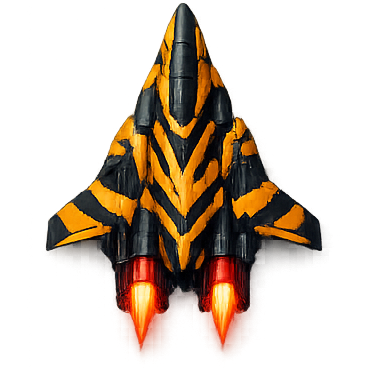
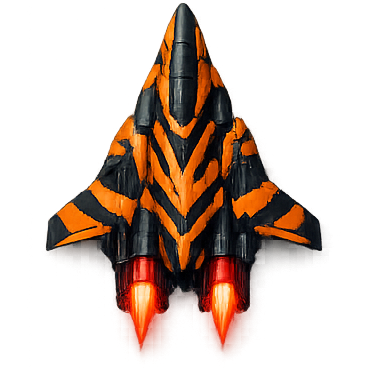
Thorium gap: Slightly larger bosses and the shades of the ship in the tiger level are a bit more varied

diff --git a/ThoriumGap_JS/ThoriumGap.js b/ThoriumGap_JS/ThoriumGap.js
@@ -1805,17 +1805,17 @@
 
   const THEMES = [
     theme({ name: 'Thorium Rift', subtitle: 'None Shall Pass', skyTop: '#07111f', skyBottom: '#274062', glow: '#9bc5ff', accent: '#6d9cff', accent2: '#d5e4ff', forms: ['line', 'fan', 'rain'], enemyKinds: ['drifter', 'swarm', 'looper'], atmosphere: 'leaves', music: { bpm: 112, root: 220, pattern: [0, 3, 5, 7, 10, 7, 5, 3] }, boss: { name: 'Red Guardian', emoji: E.apple, hp: 400, size: 320, color: '#9ec2ff', flipWhenMovingRight: false, phases: [phase(7, 'hover', 'aimed'), phase(7, 'sweep', 'rain'), phase(8, 'low', 'ring')] } }),
-    theme({ name: 'Broken Shore', subtitle: 'First of His Name', skyTop: '#061b1b', skyBottom: '#1f4d49', glow: '#8ff7ff', accent: '#58d7c6', accent2: '#c8fff2', forms: ['swarm', 'pair', 'arc'], enemyKinds: ['looper', 'bomber', 'sniper'], atmosphere: 'pollen', music: { bpm: 126, root: 246, pattern: [0, 2, 4, 7, 9, 7, 4, 2] }, boss: { name: 'Rocket Baron', emoji: E.bee, hp: 500, size: 400, color: '#93f0e8', flipWhenMovingRight: true, phases: [phase(7, 'hover', 'fan'), phase(7.5, 'sweep', 'summon'), phase(8, 'low', 'ring')] } }),
-    theme({ name: 'Growling Space', subtitle: 'The Gilded Pouncer', skyTop: '#1b1730', skyBottom: '#53265f', glow: '#d19cff', accent: '#9a7cff', accent2: '#f0d0ff', forms: ['fan', 'rain', 'cross'], enemyKinds: ['drifter', 'looper', 'bomber'], atmosphere: 'sprinkles', music: { bpm: 136, root: 262, pattern: [0, 4, 7, 12, 7, 4, 5, 9] }, boss: { name: 'Kharza Prime', emoji: E.donut, hp: 600, size:400 , color: '#c29bff', flipWhenMovingRight: true, phases: [phase(7, 'hover', 'fan'), phase(7, 'sweep', 'ring'), phase(8, 'low', 'rain')] }}),
-    theme({ name: 'Spinners Den', subtitle: 'Hunger Without Limit', skyTop: '#0f1620', skyBottom: '#4d5867', glow: '#96c9ff', accent: '#9fb2c6', accent2: '#d0e0ef', forms: ['line', 'pair', 'cross'], enemyKinds: ['looper', 'sniper', 'bomber'], atmosphere: 'sparks', music: { bpm: 118, root: 196, pattern: [0, 0, 7, 5, 4, 5, 7, 10] }, boss: { name: 'Silken Spinner', emoji: E.gear, hp: 700, size: 400, color: '#d0d9e1', flipWhenMovingRight: false, phases: [phase(7, 'sweep', 'ring'), phase(7.5, 'dash', 'summon'), phase(8, 'hover', 'fan')] }, asteroidDensity: 1.5  }),
-    theme({ name: 'Deadlight Harbor', subtitle: 'Master of the Soulless Crew', skyTop: '#06111d', skyBottom: '#532a40', glow: '#ffbf8a', accent: '#e0a06c', accent2: '#ffc8a1', forms: ['rain', 'arc', 'swarm'], enemyKinds: ['swarm', 'sniper', 'drifter'], atmosphere: 'motes', music: { bpm: 108, root: 196, pattern: [0, 5, 7, 10, 7, 5, 3, 5] }, boss: { name: 'Captain Thaddeus', emoji: E.lantern, hp: 900, size: 400, color: '#f6b46d', flipWhenMovingRight: true, phases: [phase(7, 'hover', 'aimed'), phase(7.5, 'sweep', 'beam'), phase(8, 'low', 'ring')] } }),
-    theme({ name: 'Elysium Sea', subtitle: 'The Steed of Neptune', skyTop: '#220c0c', skyBottom: '#6d3a13', glow: '#ffd77a', accent: '#c47a19', accent2: '#ffd59f', forms: ['swarm', 'fan', 'pair'], enemyKinds: ['diver', 'swarm', 'sniper'], atmosphere: 'embers', music: { bpm: 132, root: 246, pattern: [0, 2, 3, 7, 10, 7, 3, 2] }, boss: { name: 'Lunar Horse', emoji: E.bee, hp: 1100, size: 400, color: '#e4ba6a', flipWhenMovingRight: true, phases: [phase(7, 'hover', 'fan'), phase(8, 'dash', 'rain'), phase(7.5, 'sweep', 'summon')] } }),
-    theme({ name: 'Shard Expanse', subtitle: 'The Base of Lost Hope', skyTop: '#07142f', skyBottom: '#264e88', glow: '#b0fbff', accent: '#95d5ff', accent2: '#d6c4ff', forms: ['ring', 'line', 'arc'], enemyKinds: ['swarm', 'bomber', 'elite', 'looper'], atmosphere: 'shards', music: { bpm: 120, root: 233, pattern: [0, 4, 7, 11, 7, 4, 9, 7] }, boss: { name: 'Shard Base One', emoji: E.gem, hp: 1400, size: 400, color: '#c9f6ff', flipWhenMovingRight: false, phases: [phase(7, 'hover', 'fan'), phase(7.5, 'sweep', 'ring'), phase(8, 'low', 'beam')] }, asteroidDensity: 2 }),
-    theme({ name: 'Dark Waters', subtitle: 'Prey on the Weak', skyTop: '#180709', skyBottom: '#6c2919', glow: '#ffab5b', accent: '#de6f2b', accent2: '#ffd08a', forms: ['rain', 'line', 'swarm'], enemyKinds: ['spinner', 'drifter', 'diver', 'splitter'], atmosphere: 'embers', music: { bpm: 140, root: 220, pattern: [0, 3, 7, 10, 7, 3, 5, 10] }, boss: { name: 'Cephid Hunter', emoji: E.fire, hp: 1800, size: 400, color: '#ff9e53', flipWhenMovingRight: true, phases: [phase(7, 'hover', 'rain'), phase(7.5, 'sweep', 'beam'), phase(8, 'low', 'wall')] } }),
-    theme({ name: 'Domain of Klaatu', subtitle: 'The Earth Stands Still', skyTop: '#07111d', skyBottom: '#2d3d61', glow: '#95d7ff', accent: '#aebfe0', accent2: '#95d7ff', forms: ['line', 'wave', 'pair'], enemyKinds: ['elite', 'diver', 'splitter' ], atmosphere: 'stardust', music: { bpm: 106, root: 185, pattern: [0, 7, 12, 7, 10, 7, 5, 3] }, boss: { name: 'Klaatu', emoji: E.moon, hp: 2300, size: 400, color: '#c3d6ff', flipWhenMovingRight: false, phases: [phase(7, 'hover', 'summon'), phase(7.5, 'dash', 'beam'), phase(8, 'sweep', 'ring')] }, asteroidDensity: 2 }),
-    theme({ name: 'Sunken Bastion', subtitle: 'Here Drowned Men Weep', skyTop: '#07101c', skyBottom: '#2d1a5a', glow: '#82f6ff', accent: '#6eeaff', accent2: '#c8fff2', forms: ['wave', 'cross', 'pair'], enemyKinds: ['looper', 'spinner', 'swarm', 'bomber'], atmosphere: 'neon', music: { bpm: 144, root: 220, pattern: [0, 7, 12, 10, 7, 4, 9, 12] }, boss: { name: 'Cyberphish', emoji: E.bolt, hp: 3000, size: 400, color: '#8fefff', flipWhenMovingRight: true, phases: [phase(7, 'sweep', 'wall'), phase(7.5, 'dash', 'aimed'), phase(8, 'hover', 'ring')] } }),
-    theme({ name: 'Mirrorwing Expanse', subtitle: 'The Mothership Moth', skyTop: '#0a0c14', skyBottom: '#403f55', glow: '#f0f3ff', accent: '#b6bfd6', accent2: '#9e8e5e', forms: ['line', 'cross', 'wave'], enemyKinds: ['looper', 'sniper', 'elite'], atmosphere: 'chess', music: { bpm: 122, root: 196, pattern: [0, 3, 7, 10, 7, 3, 5, 7] }, boss: { name: 'Aurelion Vane', emoji: E.queen, hp: 3900, size: 400, color: '#e7ecff', flipWhenMovingRight: false, phases: [phase(7, 'hover', 'aimed'), phase(7.5, 'dash', 'summon'), phase(8, 'sweep', 'ring')] } }),
-    theme({ name: 'Crushing Depths', subtitle: 'Hunger for Sunlight', skyTop: '#0c1821', skyBottom: '#344c84', glow: '#d7f4ff', accent: '#9cc7ff', accent2: '#d7f4ff', forms: ['rain', 'line', 'swarm'], enemyKinds:  ['spinner', 'diver', 'swarm', 'looper'], atmosphere: 'rain', music: { bpm: 128, root: 196, pattern: [0, 4, 7, 10, 7, 4, 2, 5] }, boss: { name: 'Deep Gulper', emoji: E.cloud, hp: 5100, size: 400, color: '#d3edff', flipWhenMovingRight: true, phases: [phase(7, 'hover', 'fan'), phase(7.5, 'sweep', 'rain'), phase(8, 'low', 'ring')] }, asteroidDensity: 3 }),
+    theme({ name: 'Broken Shore', subtitle: 'First of His Name', skyTop: '#061b1b', skyBottom: '#1f4d49', glow: '#8ff7ff', accent: '#58d7c6', accent2: '#c8fff2', forms: ['swarm', 'pair', 'arc'], enemyKinds: ['looper', 'bomber', 'sniper'], atmosphere: 'pollen', music: { bpm: 126, root: 246, pattern: [0, 2, 4, 7, 9, 7, 4, 2] }, boss: { name: 'Rocket Baron', emoji: E.bee, hp: 500, size: 420, color: '#93f0e8', flipWhenMovingRight: true, phases: [phase(7, 'hover', 'fan'), phase(7.5, 'sweep', 'summon'), phase(8, 'low', 'ring')] } }),
+    theme({ name: 'Growling Space', subtitle: 'The Gilded Pouncer', skyTop: '#1b1730', skyBottom: '#53265f', glow: '#e8d124', accent: '#ffe77c', accent2: '#fff5d0', forms: ['fan', 'rain', 'cross'], enemyKinds: ['drifter', 'looper', 'bomber'], atmosphere: 'sprinkles', music: { bpm: 136, root: 262, pattern: [0, 4, 7, 12, 7, 4, 5, 9] }, boss: { name: 'Kharza Prime', emoji: E.donut, hp: 600, size:425 , color: '#fffa9b', flipWhenMovingRight: true, phases: [phase(7, 'hover', 'fan'), phase(7, 'sweep', 'ring'), phase(8, 'low', 'rain')] }}),
+    theme({ name: 'Spinners Den', subtitle: 'Hunger Without Limit', skyTop: '#0f1620', skyBottom: '#4d5867', glow: '#96c9ff', accent: '#9fb2c6', accent2: '#d0e0ef', forms: ['line', 'pair', 'cross'], enemyKinds: ['looper', 'sniper', 'bomber'], atmosphere: 'sparks', music: { bpm: 118, root: 196, pattern: [0, 0, 7, 5, 4, 5, 7, 10] }, boss: { name: 'Silken Spinner', emoji: E.gear, hp: 700, size: 430, color: '#d0d9e1', flipWhenMovingRight: false, phases: [phase(7, 'sweep', 'ring'), phase(7.5, 'dash', 'summon'), phase(8, 'hover', 'fan')] }, asteroidDensity: 2  }),
+    theme({ name: 'Deadlight Harbor', subtitle: 'Master of the Soulless Crew', skyTop: '#06111d', skyBottom: '#532a40', glow: '#ffbf8a', accent: '#e0a06c', accent2: '#ffc8a1', forms: ['rain', 'arc', 'swarm'], enemyKinds: ['swarm', 'sniper', 'drifter'], atmosphere: 'motes', music: { bpm: 108, root: 196, pattern: [0, 5, 7, 10, 7, 5, 3, 5] }, boss: { name: 'Captain Thaddeus', emoji: E.lantern, hp: 900, size: 435, color: '#f6b46d', flipWhenMovingRight: true, phases: [phase(7, 'hover', 'aimed'), phase(7.5, 'sweep', 'beam'), phase(8, 'low', 'ring')] } }),
+    theme({ name: 'Elysium Sea', subtitle: 'The Steed of Neptune', skyTop: '#220c0c', skyBottom: '#6d3a13', glow: '#ffd77a', accent: '#c47a19', accent2: '#ffd59f', forms: ['swarm', 'fan', 'pair'], enemyKinds: ['diver', 'swarm', 'sniper'], atmosphere: 'embers', music: { bpm: 132, root: 246, pattern: [0, 2, 3, 7, 10, 7, 3, 2] }, boss: { name: 'Lunar Horse', emoji: E.bee, hp: 1100, size: 440, color: '#e4ba6a', flipWhenMovingRight: true, phases: [phase(7, 'hover', 'fan'), phase(8, 'dash', 'rain'), phase(7.5, 'sweep', 'summon')] } }),
+    theme({ name: 'Shard Expanse', subtitle: 'The Base of Lost Hope', skyTop: '#07142f', skyBottom: '#264e88', glow: '#b0fbff', accent: '#95d5ff', accent2: '#d6c4ff', forms: ['ring', 'line', 'arc'], enemyKinds: ['swarm', 'bomber', 'elite', 'looper'], atmosphere: 'shards', music: { bpm: 120, root: 233, pattern: [0, 4, 7, 11, 7, 4, 9, 7] }, boss: { name: 'Shard Base One', emoji: E.gem, hp: 1400, size: 445, color: '#c9f6ff', flipWhenMovingRight: false, phases: [phase(7, 'hover', 'fan'), phase(7.5, 'sweep', 'ring'), phase(8, 'low', 'beam')] }, asteroidDensity: 2 }),
+    theme({ name: 'Dark Waters', subtitle: 'Prey on the Weak', skyTop: '#180709', skyBottom: '#6c2919', glow: '#ffab5b', accent: '#de6f2b', accent2: '#ffd08a', forms: ['rain', 'line', 'swarm'], enemyKinds: ['spinner', 'drifter', 'diver', 'splitter'], atmosphere: 'embers', music: { bpm: 140, root: 220, pattern: [0, 3, 7, 10, 7, 3, 5, 10] }, boss: { name: 'Cephid Hunter', emoji: E.fire, hp: 1800, size: 450, color: '#ff9e53', flipWhenMovingRight: true, phases: [phase(7, 'hover', 'rain'), phase(7.5, 'sweep', 'beam'), phase(8, 'low', 'wall')] } }),
+    theme({ name: 'Domain of Klaatu', subtitle: 'The Earth Stands Still', skyTop: '#07111d', skyBottom: '#2d3d61', glow: '#95d7ff', accent: '#aebfe0', accent2: '#95d7ff', forms: ['line', 'wave', 'pair'], enemyKinds: ['elite', 'diver', 'splitter' ], atmosphere: 'stardust', music: { bpm: 106, root: 185, pattern: [0, 7, 12, 7, 10, 7, 5, 3] }, boss: { name: 'Klaatu', emoji: E.moon, hp: 2300, size: 455, color: '#c3d6ff', flipWhenMovingRight: false, phases: [phase(7, 'hover', 'summon'), phase(7.5, 'dash', 'beam'), phase(8, 'sweep', 'ring')] }, asteroidDensity: 2 }),
+    theme({ name: 'Sunken Bastion', subtitle: 'Here Drowned Men Weep', skyTop: '#07101c', skyBottom: '#2d1a5a', glow: '#82f6ff', accent: '#6eeaff', accent2: '#c8fff2', forms: ['wave', 'cross', 'pair'], enemyKinds: ['looper', 'spinner', 'swarm', 'bomber'], atmosphere: 'neon', music: { bpm: 144, root: 220, pattern: [0, 7, 12, 10, 7, 4, 9, 12] }, boss: { name: 'Cyberphish', emoji: E.bolt, hp: 3000, size: 460, color: '#8fefff', flipWhenMovingRight: true, phases: [phase(7, 'sweep', 'wall'), phase(7.5, 'dash', 'aimed'), phase(8, 'hover', 'ring')] } }),
+    theme({ name: 'Mirrorwing Expanse', subtitle: 'The Mothership Moth', skyTop: '#0a0c14', skyBottom: '#403f55', glow: '#f0f3ff', accent: '#b6bfd6', accent2: '#9e8e5e', forms: ['line', 'cross', 'wave'], enemyKinds: ['looper', 'sniper', 'elite'], atmosphere: 'chess', music: { bpm: 122, root: 196, pattern: [0, 3, 7, 10, 7, 3, 5, 7] }, boss: { name: 'Aurelion Vane', emoji: E.queen, hp: 3900, size: 465, color: '#e7ecff', flipWhenMovingRight: false, phases: [phase(7, 'hover', 'aimed'), phase(7.5, 'dash', 'summon'), phase(8, 'sweep', 'ring')] } }),
+    theme({ name: 'Crushing Depths', subtitle: 'Hunger for Sunlight', skyTop: '#0c1821', skyBottom: '#344c84', glow: '#d7f4ff', accent: '#9cc7ff', accent2: '#d7f4ff', forms: ['rain', 'line', 'swarm'], enemyKinds:  ['spinner', 'diver', 'swarm', 'looper'], atmosphere: 'rain', music: { bpm: 128, root: 196, pattern: [0, 4, 7, 10, 7, 4, 2, 5] }, boss: { name: 'Deep Gulper', emoji: E.cloud, hp: 5100, size: 470, color: '#d3edff', flipWhenMovingRight: true, phases: [phase(7, 'hover', 'fan'), phase(7.5, 'sweep', 'rain'), phase(8, 'low', 'ring')] }, asteroidDensity: 3 }),
     theme({ name: 'Thorium Gap', subtitle: 'Final Descent', skyTop: '#0f081b', skyBottom: '#5b3d18', glow: '#ffe78a', accent: '#ffd77a', accent2: '#ffffff', forms: ['ring', 'fan', 'wave'], enemyKinds: ['elite', 'sniper', 'spinner', 'looper'], atmosphere: 'nova', music: { bpm: 152, root: 262, pattern: [0, 4, 7, 12, 15, 12, 7, 4] }, boss: { name: 'Unnamed Horror', emoji: E.sun, hp: 10000, size: 512, color: '#fff0bd', flipWhenMovingRight: false, phases: [phase(6.5, 'hover', 'aimed'), phase(6.5, 'sweep', 'ring'), phase(6.5, 'low', 'summon'), phase(6.5, 'dash', 'beam'), phase(7.5, 'low', 'wall')] } })
   ];
 
